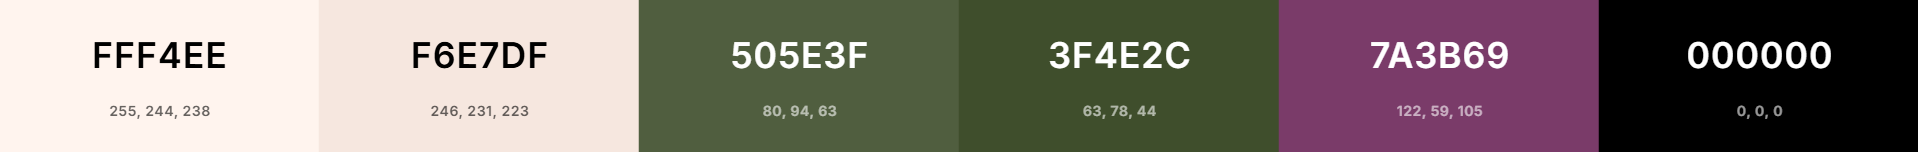
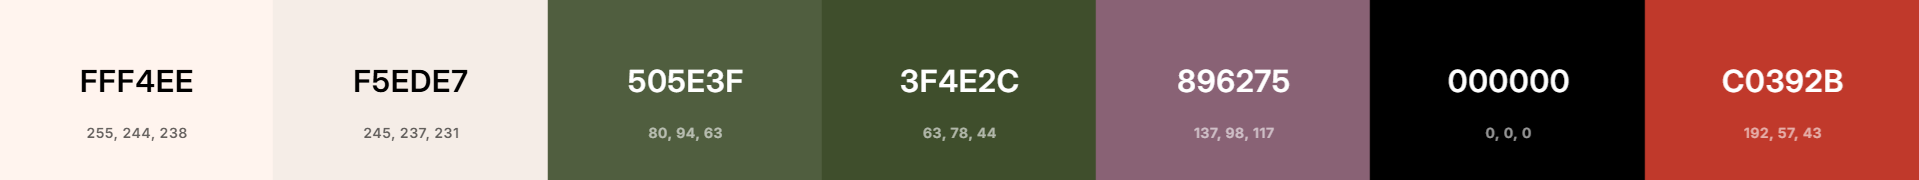
Añadiendo modificación guia de estilos

diff --git a/doc/diseno/guia_estilo.md b/doc/diseno/guia_estilo.md
@@ -9,7 +9,7 @@ BookSwap es una aplicación de intercambio de libros que busca transmitir cercan
 ## Paleta de colores
 
 La gama de colores escogida para BookSwap está formada por seis colores seleccionados con cuidado y que equilibran la naturaleza y la cultura. Esta diversidad posibilita la creación de una interfaz que sea consistente, accesible y que esté alineada desde el punto de vista emocional con los valores de la aplicación.
-=======
+
 BookSwap es una aplicación de intercambio de libros que busca transmitir altruismo, cercanía y pasión por la lectura. Su identidad visual se basa en valores como la sostenibilidad y la cultura.
 
 ## Paleta de colores
@@ -27,6 +27,7 @@ La gama de colores escogida para BookSwap está formada por seis colores que equ
 | **3F4E2C** | Color base |
 | **896275** | Color de contraste |
 | **000000** | Texto principal |
+| **C0392B** | Acciones negativas |
 
 La paleta de colores se ha obtenido gracias a la web Coolors, que permite jugar con distintas combinaciones de colores.
 
